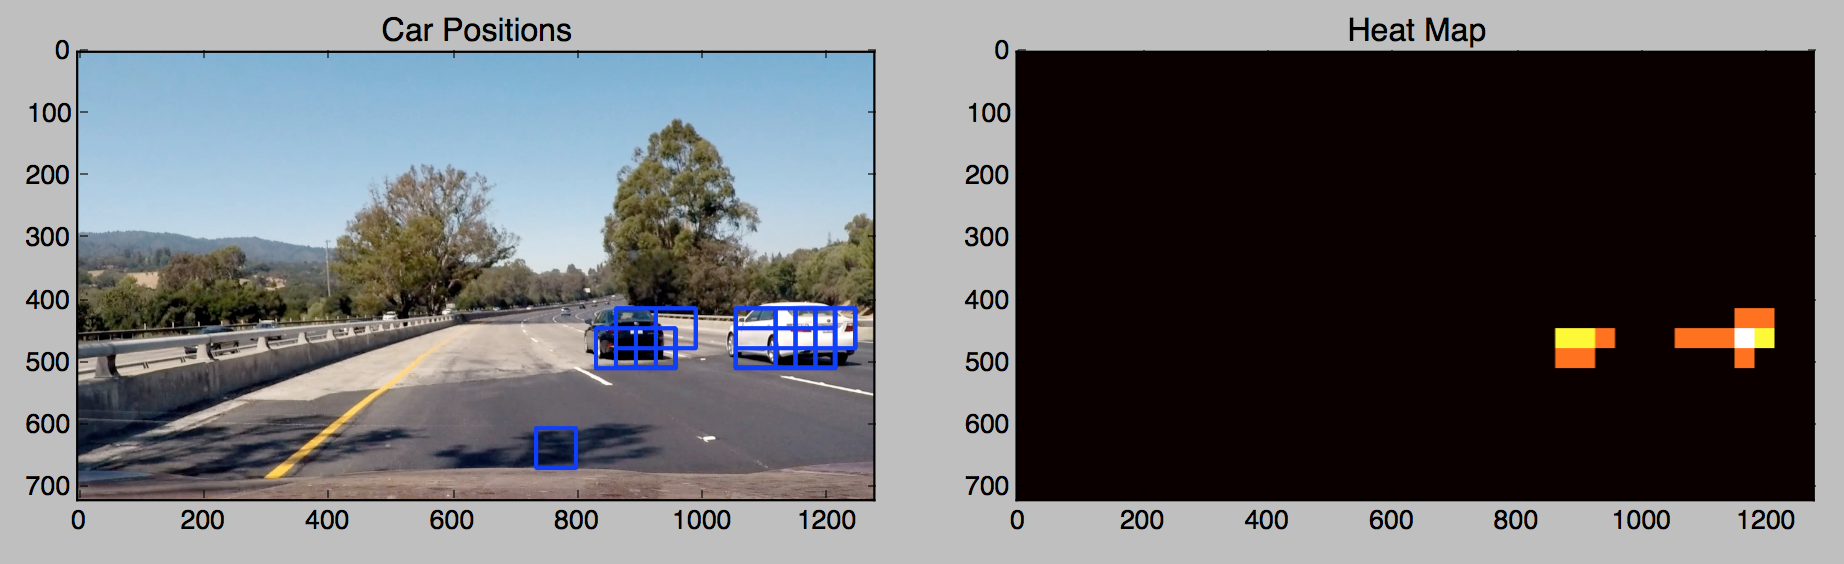
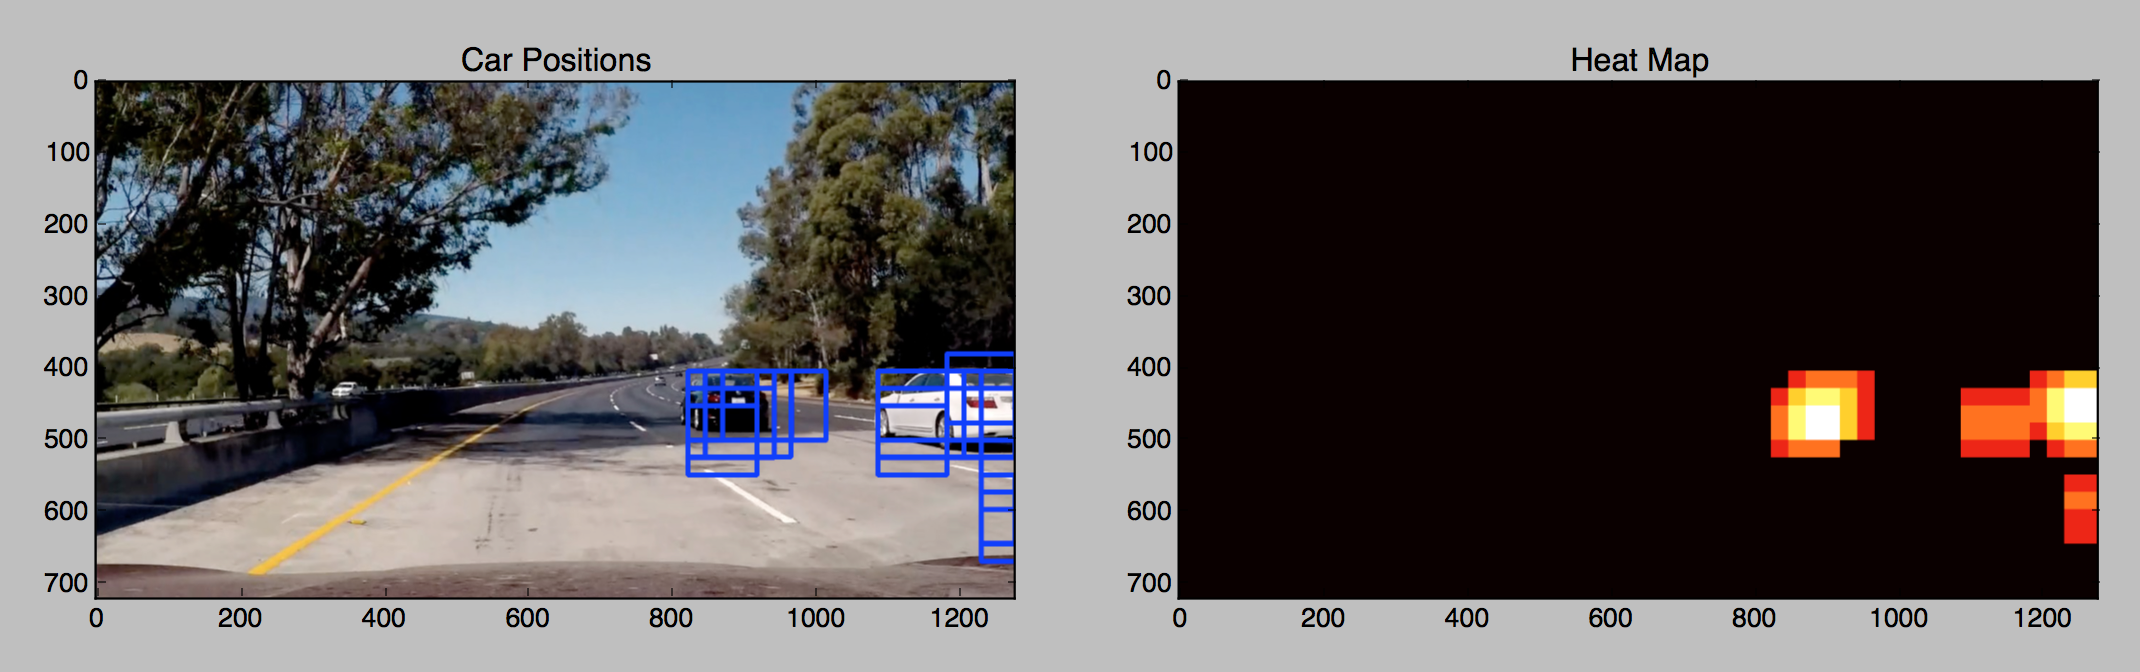
Fine tuning

diff --git a/src/process.py b/src/process.py
@@ -29,6 +29,7 @@ spatial_feat = False 		# Spatial features on or off
 hist_feat = False 			# Histogram features on or off
 hog_feat = True 			# HOG features on or off
 y_start_stop = [380, 680]	# Min and max in y to search in slide_window()
+x_start_stop = [800, 1280]	# Min and max in x to search in slide_window()
 
 # Load the images as RGB, 64x64
 car_images, not_car_images = utils.load_images(udacity=False)
@@ -66,10 +67,10 @@ svc.fit(X_train, y_train)
 print('Test Accuracy of SVC = ', round(svc.score(X_test, y_test), 4))
 
 # Test the result on one single image
-image = mpimg.imread('./test_images/test1.jpg')
+image = mpimg.imread('./test_images/test5.jpg')
 draw_image = np.copy(image)
 
-windows = utils.slide_window(image, x_start_stop=[None, None], y_start_stop=y_start_stop, xy_window=(64, 64), xy_overlap=(0.5, 0.5))
+windows = utils.slide_window(image, x_start_stop=x_start_stop, y_start_stop=y_start_stop, xy_window=(96, 96), xy_overlap=(0.75, 0.75))
 
 hot_windows = utils.search_windows(image, windows, svc, X_scaler, color_space=color_space, 
 						spatial_size=spatial_size, hist_bins=hist_bins, 

diff --git a/src/utils.py b/src/utils.py
@@ -71,9 +71,9 @@ def load_images(udacity=True):
 	else:
 		car_images_path = glob.glob('./dataset/vehicles/*/*.png')
 		not_car_images_path = glob.glob('./dataset/non-vehicles/*/*.png')
-		for i in range(0, 500): 
+		for i in range(0, 1000): 
 			car_images.append(imread(car_images_path[i]))
-		for i in range(0, 500): 
+		for i in range(0, 1000): 
 			not_car_images.append(imread(not_car_images_path[i]))
 		#car_images = [imread(image) for image in car_images_path]
 		#not_car_images = [imread(image) for image in not_car_images_path]
